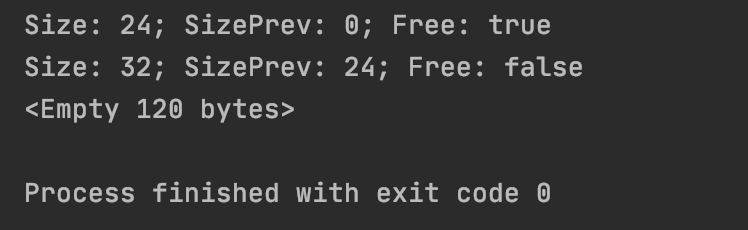
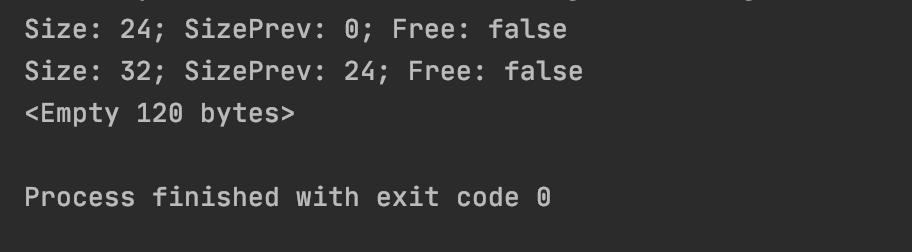
readme images were fixed.

diff --git a/lab1/src/com/nikita/Main.java b/lab1/src/com/nikita/Main.java
@@ -14,25 +14,16 @@ public class Main {
             int ind1 = allocator.alloc(24);
             int ind2 = allocator.alloc(32);
 
-            try {
-                allocator.realloc(ind1, 48);
-            } catch (InvalidIndexException err) {
-                System.err.println(err);
-            }
+            allocator.write(ind1, new byte[]{1, 4, 5, 8});
+            allocator.write(ind2, new byte[]{9, 6, 2, 125, 6});
 
-//            int ind1 = allocator.alloc(32);
-//            int ind2 = allocator.alloc(32);
-//
-//            allocator.write(ind1, new byte[]{1, 4, 5, 8});
-//            allocator.write(ind2, new byte[]{9, 6, 2, 125, 6});
-//
-//            allocator.realloc(ind2, 24);
+            // allocator.realloc(ind2, 24);
 
             // System.out.println("Block " + ind1 + ": " + ArrayUtils.byteArrayToString(allocator.read(ind1)));
             // System.out.println("Block " + ind2 + ": " + ArrayUtils.byteArrayToString(allocator.read(ind2)));
 
             System.out.println(allocator.dump());
-        } catch (InvalidSizeException err) {
+        } catch (InvalidSizeException | InvalidIndexException err) {
             System.err.println(err);
             System.exit(1);
         }

diff --git a/lab1/README.md b/lab1/README.md
@@ -130,4 +130,4 @@ System.out.println(allocator.dump());
 ```
 
 ##### Output
-![reallocating block](img/5.png)
+![reallocating block](img/6.png)
